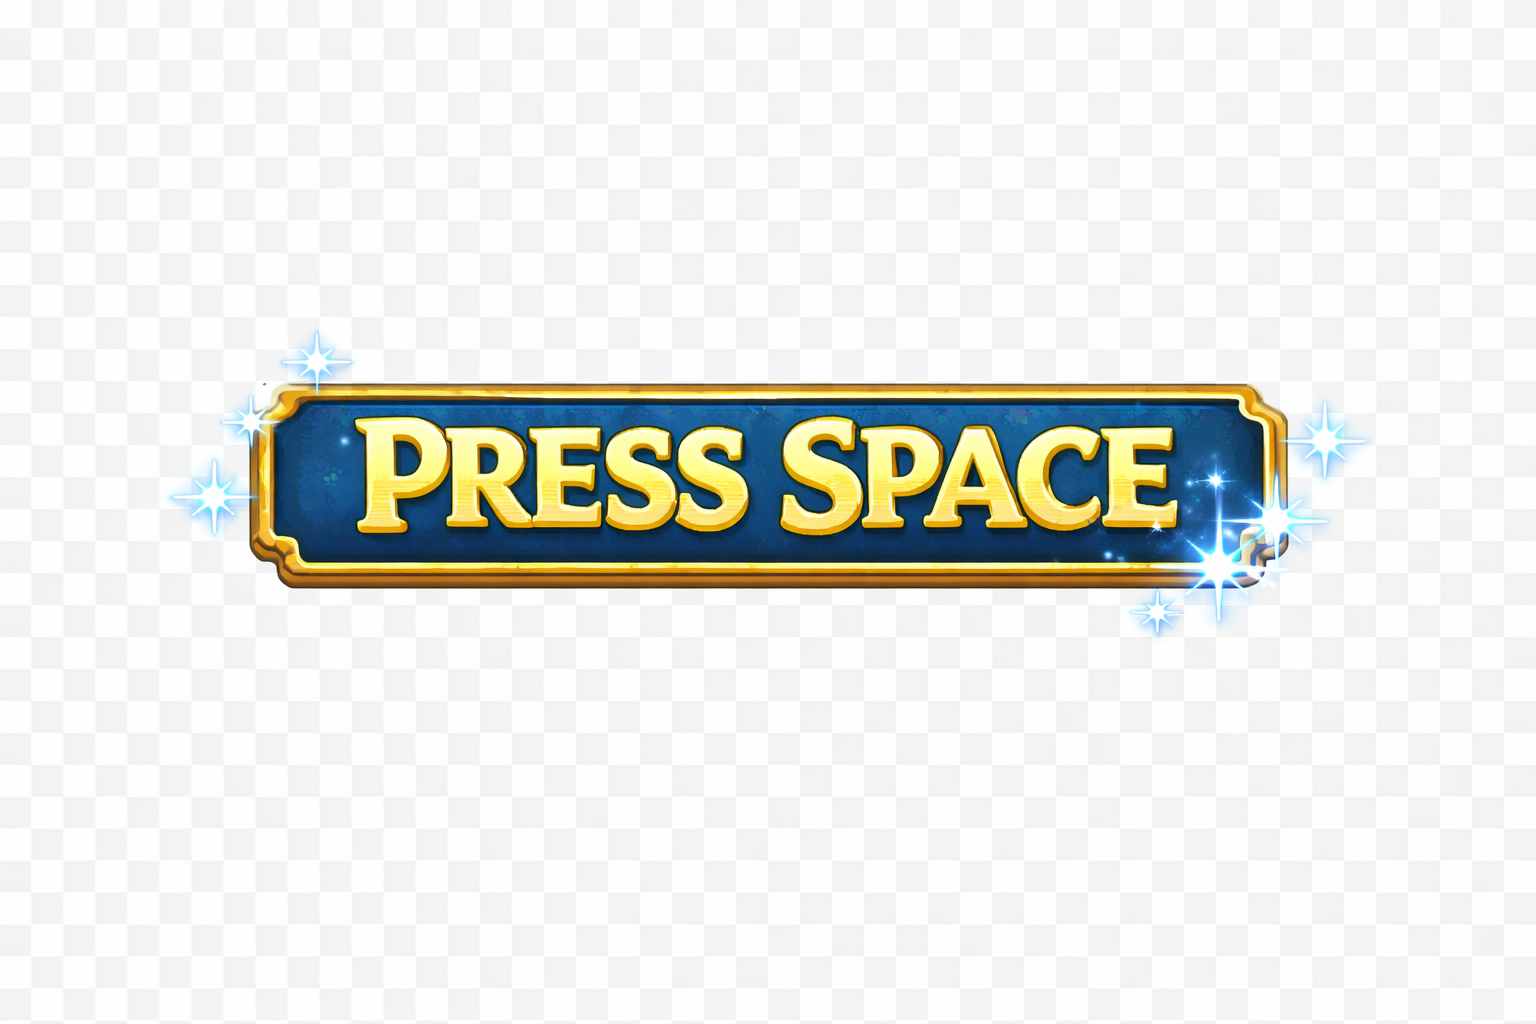
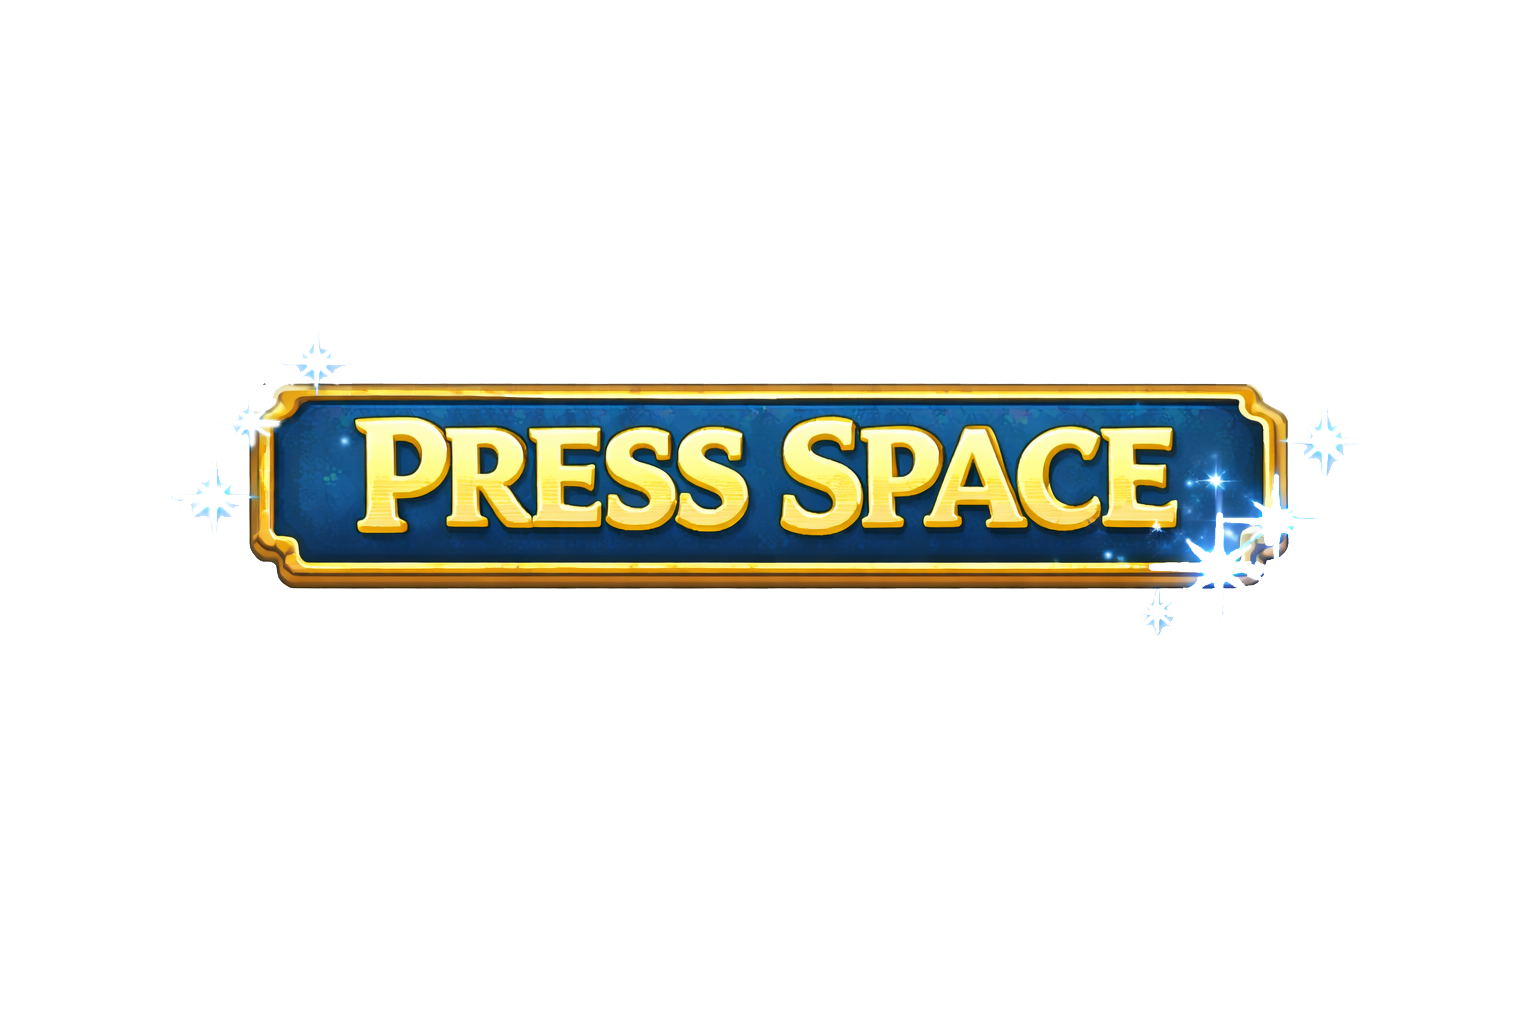
タイトルとか追加

Changed region(s): [[0.7188, 0.375, 0.9062, 0.625], [0.0938, 0.375, 0.1875, 0.5312], [0.1875, 0.3125, 0.25, 0.375]]

diff --git a/Project/Source/titleScene.h b/Project/Source/titleScene.h
@@ -14,4 +14,7 @@ public:
 	void Draw() override;
 private:
 
+	int image;
+	int rogoImage;
+	int keyImage;
 };
